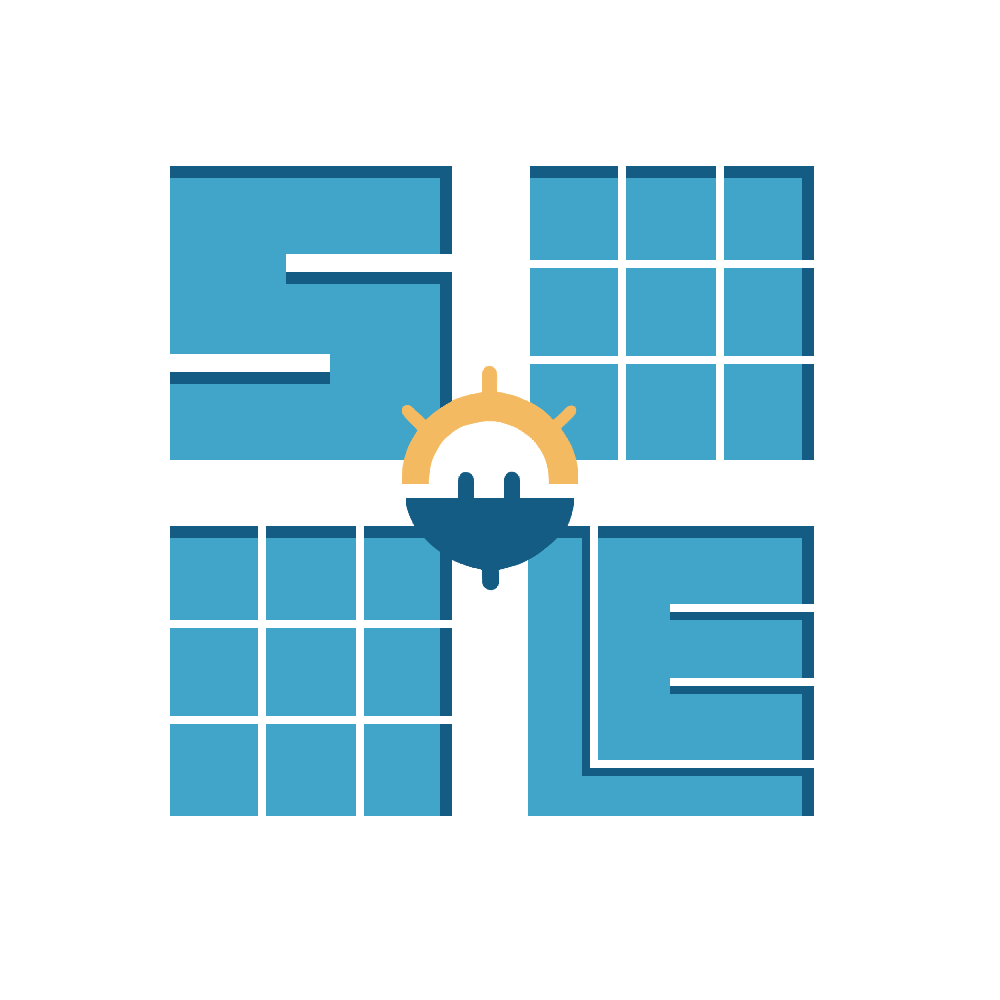
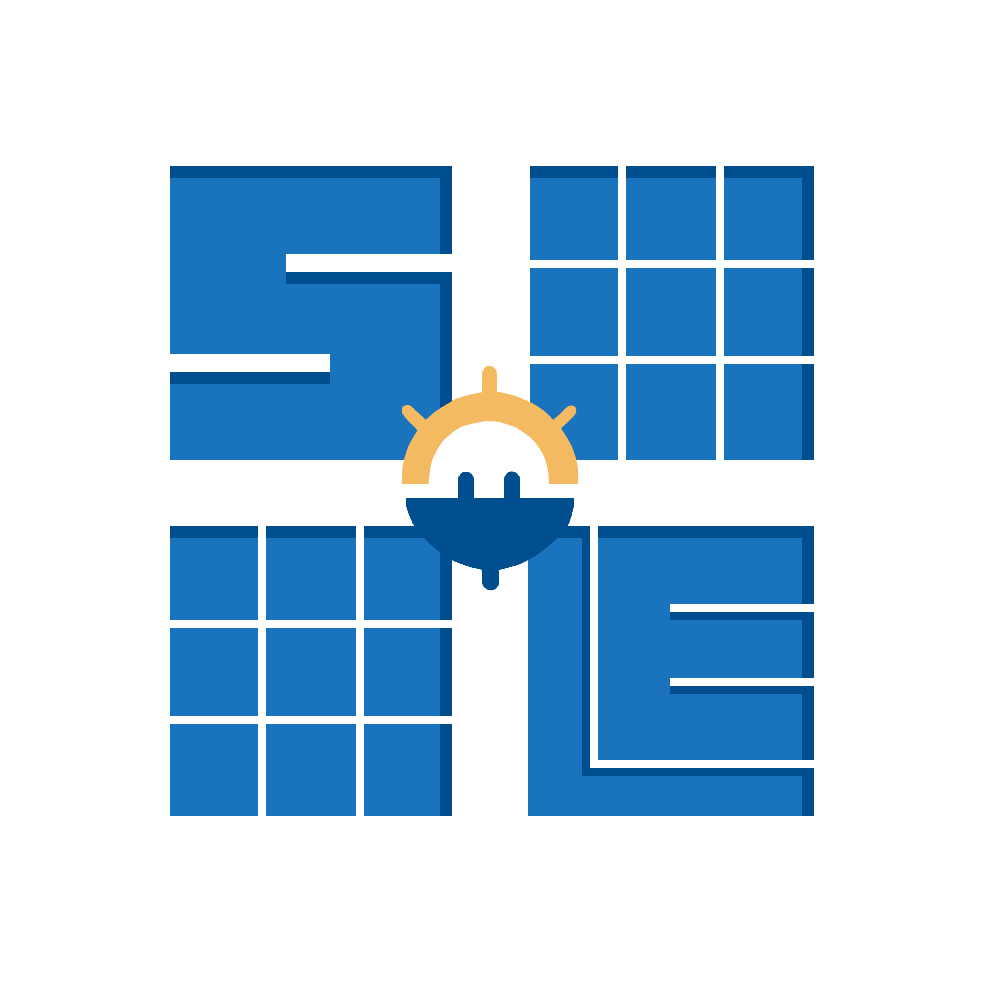
로고색수정

diff --git a/Soleilect/src/main/frontend/src/components/Auth/SignUp.jsx b/Soleilect/src/main/frontend/src/components/Auth/SignUp.jsx
@@ -88,7 +88,7 @@ const SignUp = () => {
     axios
       .post('/Sol/joinCon/idCheck', formData)
       .then((response) => {
-        console.log(response)
+        console.log(response.data)
       })
       .catch((error) => {
         console.log(error)
